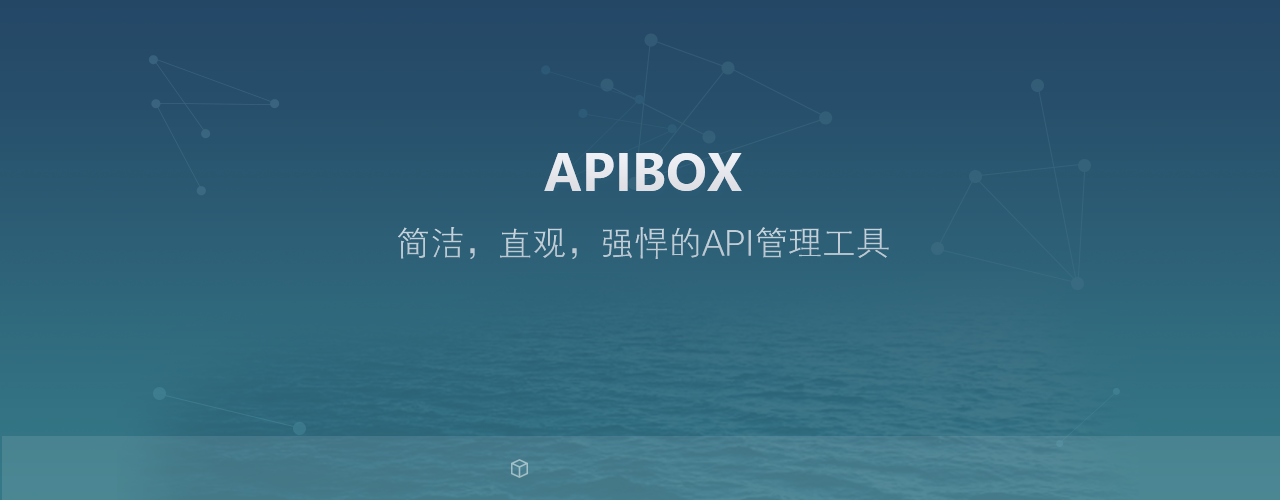
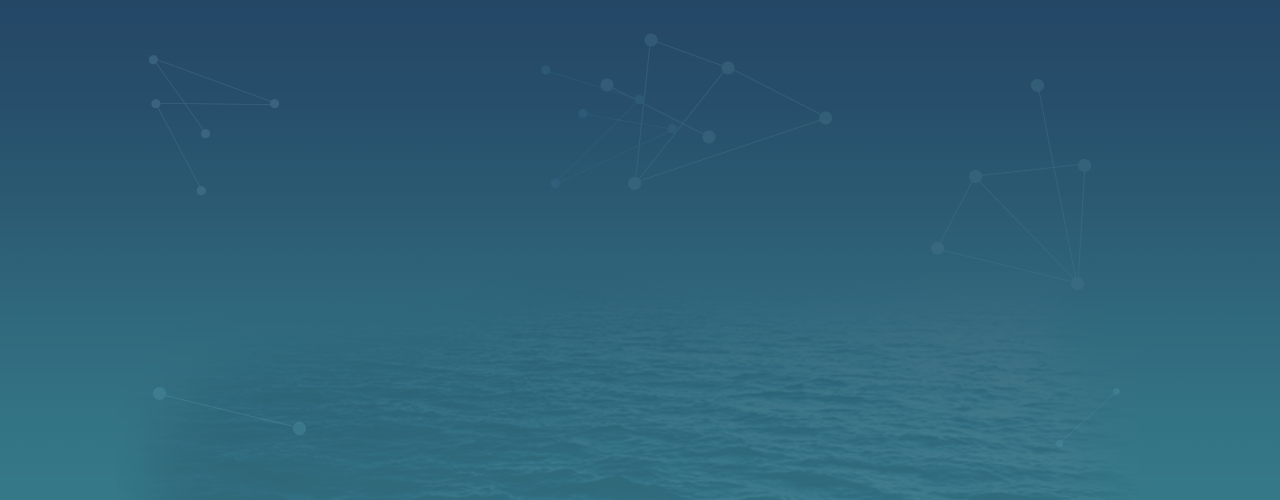
home

diff --git a/app/styles/css/header.css b/app/styles/css/header.css
@@ -1,0 +1,59 @@
+/*----------------------header css---------------------------------*/
+.indexheader {
+	width: 100%;
+	background: white;
+	position: relative;
+	padding: 24px 0;
+}
+.header-content{
+	width: 1130px;
+	margin: 0 auto;
+}
+.indexheader .logo {
+	display: inline-block;
+	width: 110px;
+	height: 40px;
+	float: left;
+	background: url(../../images/api_logo.png) no-repeat 0px 9px;
+}
+.indexheader .seach-nr {
+	width: 824px;
+	height: 36px;
+	float: left;
+	line-height: 40px;
+	color: #aeaeae;
+	border:1px solid #dddddd;
+	background: #fafafa;
+}
+.indexheader .search {
+	display: inline-block;
+	width: 53px;
+	height: 40px;
+	float: left;
+	border-right: 1px solid #dddddd;
+	background: url(../../images/seach-logo.png) no-repeat;
+}
+.indexheader .new-button {
+	display: inline-block;
+	width: 110px;
+	height: 40px;
+	float: left;
+	border: none;
+	background: #5093e1;
+	color:white;
+	border-radius: 2px;
+	margin-left: 20px;
+}
+.indexheader:after {
+	content: " ";
+	display: block;
+	clear: both;
+}
+
+/*content-----css*/
+.content{
+	min-width: 1130px;
+	width: 100%;
+	height: 498px;
+	background: url(../../images/head_img.png) center;
+}

diff --git a/app/styles/css/home.css b/app/styles/css/home.css
@@ -561,46 +561,3 @@ body{
 .baoban-register-login .register-login-zone .login-zone a{
 	font-size: 12px;
 }
-
-
-/*----------------------header css---------------------------------*/
-.indexheader {
-	min-width: 1280px;
-	width: 100%;
-	text-align: center;
-}
-.indexheader .logo {
-	display: inline-block;
-	width: 110px;
-	height: 40px;
-	float: left;
-	background: url(../../images/api_logo.png);
-}
-.indexheader .seach-nr {
-	width: 824px;
-	height: 36px;
-	float: left;
-	line-height: 40px;
-	color: #aeaeae;
-}
-.indexheader .search {
-	display: inline-block;
-	width: 54px;
-	height: 40px;
-	float: left;
-	background: url(../../images/seach-logo.png);
-}
-.indexheader .new-button {
-	display: inline-block;
-	width: 110px;
-	height: 42px;
-	float: left;
-	border: none;
-	background: #5093e1;
-	color:white;
-}
-.indexheader:after {
-	content: " ";
-	display: block;
-	clear: both;
-}

diff --git a/app/templates/common/page-regions/header.html b/app/templates/common/page-regions/header.html
@@ -1,4 +1,4 @@
-<div>
+<div class="header-content">
 	<span class="logo"></span>
 	<input type="text" class="seach-nr" value="find packages"/>
 	<span class= "search"></span>

diff --git a/app/templates/home/index-page.html b/app/templates/home/index-page.html
@@ -1,4 +1,5 @@
 <div>
 	<div class= "indexheader"></div>
+	<div class="content"></div>
 	<p class="single-p">niha dasdadsao</p>
 </div>

diff --git a/app/styles/css/all.css b/app/styles/css/all.css
@@ -3,3 +3,4 @@
 @import url('normalize.css');
 @import url('home.css');
 @import url('apibox.css');
+@import url('header.css');
